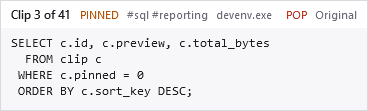
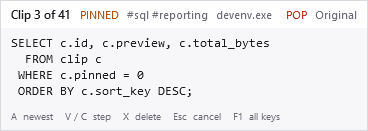
Signpost the gesture: a key hint on the overlay, and F1 that no longer steals focus
Two things were reported as missing and both already worked. A jumps straight back to the newest clip -
one key, however deep you are - and F1 shows the whole key list mid-gesture. Neither was discoverable,
because a gesture with no window and no menu has nowhere to advertise itself. That is a real defect even
though the features exist: the user pressed V two hundred times and had no way back.

So the overlay now carries a muted 10px line along the bottom:

    A  newest    V / C  step    X  delete    Esc  cancel    F1  all keys

Four keys, not the whole list: get back, get out, and where to find the rest. It names the CONFIGURED
trigger letter rather than assuming V, since a hint pointing at a key that does nothing would be worse
than no hint. ShowOverlayKeyHint turns it off, on the Appearance tab, for once the gesture is in your
fingers.

F1 also had a genuine bug behind it, which is why "can we see the keys while pasting" was a fair
question even though the key was bound. ShortcutHelpWindow was shown with Show() and an Activate() on
the second press, both of which take focus - and F1 is pressed MID-GESTURE, with Ctrl still held and the
target application still expecting the paste. Activating a window there moves focus off that
application, so the paste would land in the help window instead of the document. The window now sets
ShowActivated="False", and re-showing it flicks Topmost instead of calling Activate. Clicking it still
focuses it; nothing refuses that.
[…]

diff --git a/docs/help/gesture.html b/docs/help/gesture.html
@@ -25,7 +25,8 @@ use it &mdash; it is there so you can, not because you must.</p>
 <tr><th>Key</th><th>Action</th></tr>
 <tr><td class="key">V</td><td>Step to an older clip. Tap again to keep going back.</td></tr>
 <tr><td class="key">C</td><td>Step back towards a newer clip.</td></tr>
-<tr><td class="key">A</td><td>Jump straight to the newest clip.</td></tr>
+<tr><td class="key">A</td><td>Jump straight back to the newest clip. This is the way out of "I have tapped
+<code>V</code> two hundred times and cannot get back" &mdash; one key, however deep you are.</td></tr>
 <tr><td class="key">1 &ndash; 9</td><td>Jump that many clips at once.</td></tr>
 <tr><td class="key">&minus;</td><td>Reverse the direction the number keys jump in.</td></tr>
 </table>
@@ -132,9 +133,14 @@ holding a pop, its tags, and which application it was copied from.</li>
 <li>A banner when <code>X</code> has put you in Cancel, Delete or Delete All.</li>
 </ul>
 
-<p>The overlay never takes focus, so your typing target is untouched. How large an image preview may be,
-how much text is shown, and whether the overlay follows the caret or sits at a fixed position are all
-under <b>Settings, Appearance</b>.</p>
+<p>Along the bottom is a muted reminder of the keys worth knowing when you have lost your place:
+<code>A</code> back to the newest, stepping, delete, cancel, and <code>F1</code> for the full list. Turn it
+off under <b>Settings, Appearance</b> once the gesture is in your fingers.</p>
+
+<p>The overlay never takes focus, so your typing target is untouched &mdash; and neither does the
+<code>F1</code> key list, which is why you can read it with <code>Ctrl</code> still held and then carry on
+where you left off. How large an image preview may be, how much text is shown, and whether the overlay
+follows the caret or sits at a fixed position are all under <b>Settings, Appearance</b>.</p>
 
 </body>
 </html>

diff --git a/src/PasteJump.App/Views/SettingsWindow.xaml b/src/PasteJump.App/Views/SettingsWindow.xaml
@@ -536,6 +536,10 @@
                         <TextBlock Style="{StaticResource SettingHelp}"
                                    Text="Leave both empty — the default — to have the overlay appear beside the text caret, or beside the pointer where an application does not report one. Fill in both to pin it to one place on screen instead, in physical pixels from the top-left of the primary monitor. One without the other is not accepted: it would track the caret in one axis and not the other." />
 
+                        <CheckBox x:Name="ShowKeyHintCheck" Content="Show a Key Reminder Along the Bottom" />
+                        <TextBlock Style="{StaticResource CheckHelp}"
+                                   Text="One muted line naming the keys worth knowing when you have lost your place: A returns to the newest clip, X deletes, Esc cancels, and F1 opens the full list. Turn it off once the gesture is in your fingers." />
+
                         <TextBlock Style="{StaticResource SectionHeading}" Margin="0,0,0,0" Text="After Each Copy" />
 
                         <CheckBox x:Name="ShowCopyNotificationCheck"

diff --git a/src/PasteJump.App/Views/OverlayWindow.xaml b/src/PasteJump.App/Views/OverlayWindow.xaml
@@ -207,6 +207,19 @@
                            Text="No clips" />
             </Grid>
 
+            <!--
+                The key hint. It exists because two features were reported as missing while both already
+                worked: jumping back to the newest clip, and reading the key list mid-gesture. Nothing on
+                screen said so, and a gesture nobody sees a menu for has to carry its own signposts.
+
+                Deliberately the four that matter when you are lost rather than the whole list: get back,
+                get out, and where to find the rest. 10px and muted so it reads as a footnote.
+            -->
+            <TextBlock x:Name="KeyHintText"
+                       Margin="10,0,10,8"
+                       Foreground="{DynamicResource MutedTextBrush}"
+                       FontSize="10" />
+
         </StackPanel>
     </Border>
 </Window>

diff --git a/src/PasteJump.App/Views/ShortcutHelpWindow.xaml b/src/PasteJump.App/Views/ShortcutHelpWindow.xaml
@@ -9,7 +9,8 @@
         MinHeight="300"
         ResizeMode="CanResize"
         Background="{DynamicResource SurfaceBrush}"
-        WindowStartupLocation="CenterScreen">
+        WindowStartupLocation="CenterScreen"
+        ShowActivated="False">
 
     <Window.Resources>
         <Style x:Key="KeyStyle" TargetType="TextBlock" BasedOn="{StaticResource {x:Type TextBlock}}">

diff --git a/src/PasteJump.App/App.xaml.cs b/src/PasteJump.App/App.xaml.cs
@@ -196,6 +196,7 @@ public partial class App : Application
         _pasteHost.Paster.SetPasteKeystroke(_settings.PasteKeystroke);
         _pasteHost.SetPreviewSize(_settings.OverlayPreviewMaxWidth, _settings.OverlayPreviewMaxHeight);
         _pasteHost.SetOverlayAnchor(_settings.OverlayX, _settings.OverlayY);
+        _pasteHost.SetKeyHint(_settings.ShowOverlayKeyHint, TriggerKey.Normalise(_settings.PasteModeTriggerKey));
 
         _controller = new PasteModeController(
             new ClipStoreCatalog(_store),
@@ -768,6 +769,16 @@ public partial class App : Application
             headline: "Hotkey unavailable");
     }
 
+    /// <summary>
+    /// Shows the paste-mode key list. Reachable from the tray menu and from <c>F1</c> during the gesture.
+    /// <para>
+    /// It must not take focus, which is why the window sets <c>ShowActivated="False"</c> and why this does not
+    /// call <c>Activate</c>. <c>F1</c> is pressed <em>mid-gesture</em>, with Ctrl still held and the target
+    /// application still expecting the paste - activating a window there moves focus off that application, so
+    /// the paste would land in the help window instead of the document. The user can still click it to focus
+    /// it; nothing here refuses that.
+    /// </para>
+    /// </summary>
     private void ShowShortcutHelp()
     {
         if (_helpWindow is null)
@@ -776,11 +787,13 @@ public partial class App : Application
                 TriggerKey.Normalise(_settings.PasteModeTriggerKey)));
             _helpWindow.Closed += (_, _) => _helpWindow = null;
             _helpWindow.Show();
+            return;
         }
-        else
-        {
-            _helpWindow.Activate();
-        }
+
+        // Already open. Brought to the front without activating, for the reason above - Activate() was what
+        // this used to do, and during a gesture that is the bug.
+        _helpWindow.Topmost = true;
+        _helpWindow.Topmost = false;
     }
 
     private void OnSettingsApplied(PasteJumpSettings updated)
@@ -793,6 +806,7 @@ public partial class App : Application
         _pasteHost.Paster.SetPasteKeystroke(_settings.PasteKeystroke);
         _pasteHost.SetPreviewSize(_settings.OverlayPreviewMaxWidth, _settings.OverlayPreviewMaxHeight);
         _pasteHost.SetOverlayAnchor(_settings.OverlayX, _settings.OverlayY);
+        _pasteHost.SetKeyHint(_settings.ShowOverlayKeyHint, TriggerKey.Normalise(_settings.PasteModeTriggerKey));
 
         _triggerVirtualKey = TriggerKey.ToVirtualKey(TriggerKey.Normalise(_settings.PasteModeTriggerKey));
         ApplyHistoryHotkey(announceFailure: true);

diff --git a/src/PasteJump.App/Services/PasteJumpPasteHost.cs b/src/PasteJump.App/Services/PasteJumpPasteHost.cs
@@ -32,6 +32,21 @@ public sealed class PasteJumpPasteHost : IPasteModeHost
     private int? _overlayX;
     private int? _overlayY;
 
+    private bool _showKeyHint = true;
+    private char _triggerKey = 'V';
+
+    /// <summary>
+    /// Sets the overlay's key reminder and the trigger letter it names. Both together, because the hint has to
+    /// name the key that is actually configured.
+    /// </summary>
+    public void SetKeyHint(bool show, char triggerKey)
+    {
+        _showKeyHint = show;
+        _triggerKey = triggerKey;
+
+        _overlay?.ApplyKeyHint(show, triggerKey);
+    }
+
     /// <summary>
     /// Pins the overlay to a fixed screen position, or restores "follow the caret" when either is null.
     /// <para>
@@ -164,6 +179,7 @@ public sealed class PasteJumpPasteHost : IPasteModeHost
             // Applied on creation as well as on change, because the overlay is created lazily on the first
             // gesture - which is usually long after the settings were loaded.
             _overlay.ApplyPreviewSize(_previewMaxWidth, _previewMaxHeight);
+            _overlay.ApplyKeyHint(_showKeyHint, _triggerKey);
         }
 
         // A configured position wins over the caret. Both halves have to be set for it to mean anything, which

diff --git a/src/PasteJump.App/Views/SettingsWindow.xaml.cs b/src/PasteJump.App/Views/SettingsWindow.xaml.cs
@@ -307,6 +307,8 @@ public partial class SettingsWindow : Window
         OverlayXBox.Text = source.OverlayX?.ToString(CultureInfo.CurrentCulture) ?? string.Empty;
         OverlayYBox.Text = source.OverlayY?.ToString(CultureInfo.CurrentCulture) ?? string.Empty;
 
+        ShowKeyHintCheck.IsChecked = source.ShowOverlayKeyHint;
+
         // Deliberately just the setting. Load reconciles it with the Startup folder afterwards, which is right
         // for opening the dialog and wrong for a reset: resetting means "go back to not starting at logon", and
         // a box that stayed ticked because the shortcut is still there would read as the reset being ignored.
@@ -1107,6 +1109,7 @@ public partial class SettingsWindow : Window
         settings.OverlayPreviewMaxWidth = previewWidth;
         settings.OverlayPreviewMaxHeight = previewHeight;
         settings.OverlayPreviewChars = overlayChars;
+        settings.ShowOverlayKeyHint = ShowKeyHintCheck.IsChecked == true;
         settings.BeepDurationMs = beepMs;
         settings.PreviewMaxChars = previewChars;
         settings.HistoryLoadLimit = historyLimit;

diff --git a/src/PasteJump.App/Views/OverlayWindow.xaml.cs b/src/PasteJump.App/Views/OverlayWindow.xaml.cs
@@ -36,6 +36,22 @@ public partial class OverlayWindow : Window
         WindowInterop.ApplyRoundedCorners(this);
     }
 
+    /// <summary>
+    /// Sets the key hint, or hides it. The trigger letter is passed in rather than assumed, because it is
+    /// configurable and a hint naming a key that does nothing would be worse than no hint.
+    /// </summary>
+    public void ApplyKeyHint(bool show, char triggerKey)
+    {
+        if (!show)
+        {
+            KeyHintText.Visibility = Visibility.Collapsed;
+            return;
+        }
+
+        KeyHintText.Visibility = Visibility.Visible;
+        KeyHintText.Text = $"A  newest    {triggerKey} / C  step    X  delete    Esc  cancel    F1  all keys";
+    }
+
     /// <summary>Applies a frame and positions the window at the anchor, clamped to the work area.</summary>
     public void Render(PasteOverlayModel model, int anchorX, int anchorY)
     {

diff --git a/src/PasteJump.Core/Settings/PasteJumpSettings.cs b/src/PasteJump.Core/Settings/PasteJumpSettings.cs
@@ -199,6 +199,16 @@ public sealed class PasteJumpSettings
     /// </summary>
     public int OverlayPreviewChars { get; set; } = 400;
 
+    /// <summary>
+    /// Show a one-line key reminder along the bottom of the paste overlay.
+    /// <para>
+    /// On by default, and it earns that: two features were reported as missing while both already worked -
+    /// jumping back to the newest clip with <c>A</c>, and reading the whole key list with <c>F1</c>. A gesture
+    /// with no menu and no window has nowhere else to advertise itself, so it has to carry its own signposts.
+    /// </para>
+    /// </summary>
+    public bool ShowOverlayKeyHint { get; set; } = true;
+
     /// <summary>Show a brief notification near the cursor after each copy, as Clipjump did.</summary>
     public bool ShowCopyNotification { get; set; } = true;
 

diff --git a/tests/PasteJump.UiSmoke/Program.cs b/tests/PasteJump.UiSmoke/Program.cs
@@ -190,7 +190,12 @@ internal static class Program
     {
         var overlay = new OverlayWindow();
 
-        overlay.Loaded += (_, _) => overlay.Render(frame, anchorX: 200, anchorY: 200);
+        overlay.Loaded += (_, _) =>
+        {
+            // On, as it is by default, so the help screenshots show what a user sees.
+            overlay.ApplyKeyHint(show: true, triggerKey: 'V');
+            overlay.Render(frame, anchorX: 200, anchorY: 200);
+        };
 
         return overlay;
     }
